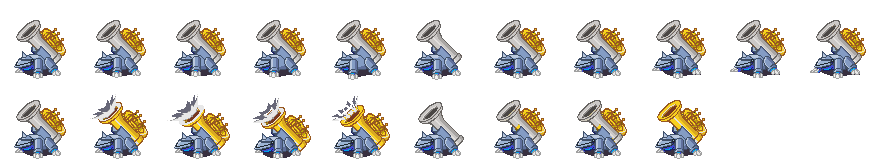
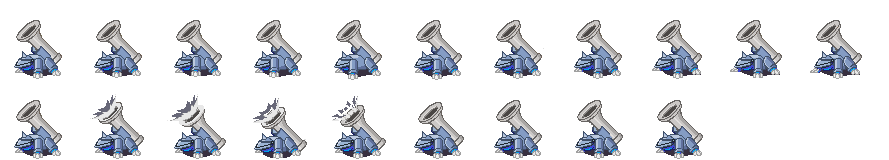
enemy
Enemy sprite kinda done

diff --git a/level1.js b/level1.js
@@ -1,4 +1,4 @@
-var level1 = 
+var level1 =
 {
 "height":29,
 "layers":[
@@ -8,7 +8,7 @@ var level1 =
          "name":"Rope",
          "opacity":1,
          "type":"tilelayer",
-         "visible":false,
+         "visible":true,
          "width":150,
          "x":0,
          "y":0
@@ -28,6 +28,17 @@ var level1 =
          "data":[0, 0, 0, 0, 0, 0, 0, 0, 0, 0, 0, 0, 0, 0, 0, 0, 0, 0, 0, 0, 0, 0, 0, 0, 0, 0, 0, 0, 0, 0, 0, 0, 0, 0, 0, 0, 0, 0, 0, 0, 0, 0, 0, 0, 0, 0, 0, 0, 0, 0, 0, 0, 0, 0, 0, 0, 0, 0, 0, 0, 0, 0, 0, 0, 0, 0, 0, 0, 0, 0, 0, 0, 0, 0, 0, 0, 0, 0, 0, 0, 0, 0, 0, 0, 0, 0, 0, 0, 0, 0, 0, 0, 0, 0, 0, 0, 0, 0, 0, 0, 0, 0, 0, 0, 0, 0, 0, 0, 0, 0, 0, 0, 0, 0, 0, 0, 0, 0, 0, 0, 0, 0, 0, 0, 0, 0, 0, 0, 0, 0, 0, 0, 0, 0, 0, 0, 0, 0, 0, 0, 0, 0, 0, 0, 0, 0, 0, 0, 0, 0, 0, 0, 0, 0, 0, 0, 0, 0, 0, 0, 0, 0, 0, 0, 0, 0, 0, 0, 0, 0, 0, 0, 0, 0, 0, 0, 0, 0, 0, 0, 0, 0, 0, 0, 0, 0, 0, 0, 0, 0, 0, 0, 0, 0, 0, 0, 0, 0, 0, 0, 0, 0, 0, 0, 0, 0, 0, 0, 0, 0, 0, 0, 0, 0, 0, 0, 0, 0, 0, 0, 0, 0, 0, 0, 0, 0, 0, 0, 0, 0, 0, 0, 0, 0, 0, 0, 0, 0, 0, 0, 0, 0, 0, 0, 0, 0, 0, 0, 0, 0, 0, 0, 0, 0, 0, 0, 0, 0, 0, 0, 0, 0, 0, 0, 0, 0, 0, 0, 0, 0, 0, 0, 0, 0, 0, 0, 0, 0, 0, 0, 0, 0, 0, 0, 0, 0, 0, 0, 0, 0, 0, 0, 0, 0, 0, 0, 0, 0, 0, 0, 0, 0, 0, 0, 0, 0, 0, 0, 0, 0, 0, 0, 0, 0, 0, 0, 0, 0, 0, 0, 0, 0, 0, 0, 0, 0, 0, 0, 0, 0, 0, 0, 0, 0, 0, 0, 0, 0, 0, 0, 0, 0, 0, 0, 0, 0, 0, 0, 0, 0, 0, 0, 0, 0, 0, 0, 0, 0, 0, 0, 0, 0, 0, 0, 0, 0, 0, 0, 0, 0, 0, 0, 0, 0, 0, 0, 0, 0, 0, 0, 0, 0, 0, 0, 0, 0, 0, 0, 0, 0, 0, 0, 0, 0, 0, 0, 0, 0, 0, 0, 0, 0, 0, 0, 0, 0, 0, 0, 0, 0, 0, 0, 0, 0, 0, 0, 0, 0, 0, 0, 0, 0, 0, 0, 0, 0, 0, 0, 0, 0, 0, 0, 0, 0, 0, 0, 0, 0, 0, 0, 0, 0, 0, 0, 0, 0, 0, 0, 0, 0, 0, 0, 0, 0, 0, 0, 0, 0, 0, 0, 0, 0, 0, 0, 0, 0, 0, 0, 0, 0, 0, 0, 0, 0, 0, 0, 0, 0, 0, 0, 0, 0, 0, 0, 0, 0, 0, 0, 0, 0, 0, 0, 0, 0, 0, 0, 0, 0, 0, 0, 0, 0, 0, 0, 0, 0, 0, 0, 0, 0, 0, 0, 0, 0, 0, 0, 0, 0, 0, 0, 0, 0, 0, 0, 0, 0, 0, 0, 0, 0, 0, 0, 0, 0, 0, 0, 0, 0, 0, 0, 0, 0, 0, 0, 0, 0, 0, 0, 0, 0, 0, 0, 0, 0, 0, 0, 0, 0, 0, 0, 0, 0, 0, 0, 0, 0, 0, 0, 0, 0, 0, 0, 0, 0, 0, 0, 0, 0, 0, 0, 0, 0, 0, 0, 0, 0, 0, 0, 0, 0, 0, 0, 0, 0, 0, 0, 0, 0, 0, 0, 0, 0, 0, 0, 0, 0, 0, 0, 0, 0, 0, 0, 0, 0, 0, 0, 0, 0, 0, 0, 0, 0, 0, 0, 0, 0, 0, 0, 0, 0, 0, 0, 0, 0, 0, 0, 0, 0, 0, 0, 0, 0, 0, 0, 0, 0, 0, 0, 0, 0, 0, 0, 0, 0, 0, 0, 0, 0, 0, 0, 0, 0, 0, 0, 0, 0, 0, 0, 0, 0, 0, 0, 0, 0, 0, 0, 0, 0, 0, 0, 0, 0, 0, 0, 0, 0, 0, 0, 0, 0, 0, 0, 0, 0, 0, 0, 0, 0, 0, 0, 0, 0, 0, 0, 0, 0, 0, 0, 0, 0, 0, 0, 0, 0, 0, 0, 0, 0, 0, 0, 0, 0, 0, 0, 0, 0, 0, 0, 0, 0, 0, 0, 0, 0, 0, 0, 0, 0, 0, 0, 0, 0, 0, 0, 0, 0, 0, 0, 0, 0, 0, 0, 0, 0, 0, 0, 0, 0, 0, 0, 0, 0, 0, 0, 0, 0, 0, 0, 0, 0, 0, 0, 0, 0, 0, 0, 0, 0, 0, 0, 0, 0, 0, 0, 0, 0, 0, 0, 0, 0, 0, 0, 0, 0, 0, 0, 0, 0, 0, 0, 0, 0, 0, 0, 0, 0, 0, 0, 0, 0, 0, 0, 0, 0, 0, 0, 0, 0, 0, 0, 0, 0, 0, 0, 0, 0, 0, 0, 0, 0, 0, 0, 0, 0, 0, 0, 0, 0, 0, 0, 0, 78, 0, 0, 0, 0, 0, 0, 0, 0, 0, 0, 0, 0, 0, 0, 0, 0, 0, 0, 0, 0, 0, 0, 0, 0, 0, 0, 0, 0, 0, 0, 0, 0, 0, 0, 0, 0, 0, 0, 0, 0, 0, 0, 0, 0, 0, 0, 0, 0, 0, 0, 0, 0, 0, 0, 0, 0, 0, 0, 0, 0, 0, 0, 0, 0, 0, 0, 0, 0, 0, 0, 0, 0, 0, 0, 0, 0, 0, 0, 0, 0, 0, 0, 0, 0, 0, 0, 0, 0, 0, 0, 0, 0, 0, 0, 0, 0, 0, 0, 0, 0, 0, 0, 0, 0, 0, 0, 0, 0, 0, 0, 0, 0, 0, 0, 0, 0, 0, 0, 0, 0, 0, 0, 0, 0, 0, 0, 0, 0, 0, 0, 0, 0, 0, 0, 0, 0, 0, 0, 0, 0, 0, 0, 0, 0, 0, 0, 0, 0, 0, 0, 0, 0, 0, 0, 0, 0, 0, 0, 0, 0, 0, 0, 0, 0, 0, 0, 0, 0, 0, 0, 0, 0, 0, 0, 0, 0, 0, 0, 0, 0, 0, 0, 0, 0, 0, 0, 0, 0, 0, 0, 0, 0, 0, 0, 0, 0, 0, 0, 0, 0, 0, 0, 0, 0, 0, 0, 0, 0, 0, 0, 0, 0, 0, 0, 0, 0, 0, 0, 0, 0, 0, 0, 0, 0, 0, 0, 0, 0, 0, 0, 0, 0, 0, 0, 0, 0, 0, 0, 0, 0, 0, 0, 0, 0, 0, 0, 0, 0, 0, 0, 0, 0, 0, 0, 0, 0, 0, 0, 0, 0, 0, 0, 0, 0, 0, 0, 0, 0, 0, 0, 0, 0, 0, 0, 0, 0, 170, 0, 0, 0, 0, 0, 0, 0, 0, 0, 0, 0, 0, 0, 0, 0, 0, 0, 0, 0, 0, 0, 0, 0, 0, 0, 0, 0, 0, 0, 0, 0, 0, 0, 0, 0, 0, 0, 0, 0, 0, 0, 0, 0, 0, 0, 0, 0, 0, 0, 0, 0, 0, 0, 0, 0, 0, 0, 0, 0, 0, 0, 0, 80, 0, 0, 0, 0, 0, 0, 0, 0, 0, 0, 0, 0, 0, 0, 0, 0, 0, 0, 0, 0, 0, 0, 0, 0, 81, 0, 82, 0, 0, 0, 0, 0, 0, 0, 0, 0, 0, 0, 0, 0, 0, 0, 0, 80, 0, 0, 0, 0, 0, 0, 0, 0, 0, 0, 0, 0, 0, 0, 0, 0, 0, 0, 0, 0, 0, 0, 0, 0, 0, 0, 0, 0, 0, 0, 0, 0, 0, 0, 0, 0, 0, 0, 0, 0, 0, 0, 0, 0, 0, 0, 0, 0, 0, 0, 0, 0, 0, 0, 0, 0, 0, 0, 0, 0, 0, 0, 0, 0, 0, 0, 0, 0, 0, 0, 0, 0, 0, 0, 0, 0, 0, 0, 0, 0, 0, 0, 0, 0, 0, 0, 0, 0, 0, 0, 0, 0, 0, 0, 0, 0, 0, 0, 0, 0, 0, 0, 0, 80, 0, 0, 0, 0, 0, 0, 0, 0, 0, 0, 0, 0, 0, 0, 0, 0, 0, 0, 0, 0, 0, 0, 0, 0, 0, 0, 0, 0, 0, 0, 0, 0, 0, 0, 0, 0, 0, 0, 0, 0, 0, 0, 0, 0, 0, 0, 0, 0, 0, 0, 0, 0, 0, 0, 0, 0, 0, 0, 0, 0, 0, 0, 0, 0, 0, 0, 0, 0, 0, 0, 0, 0, 0, 0, 0, 0, 0, 0, 0, 0, 0, 0, 170, 0, 0, 0, 0, 0, 0, 0, 0, 0, 0, 0, 0, 0, 0, 0, 0, 0, 0, 0, 0, 0, 78, 0, 0, 0, 0, 0, 0, 0, 0, 0, 0, 0, 0, 0, 0, 0, 0, 0, 0, 0, 0, 0, 0, 0, 0, 0, 0, 0, 0, 0, 0, 0, 0, 0, 0, 0, 0, 0, 0, 0, 0, 0, 0, 80, 0, 0, 0, 0, 0, 0, 0, 0, 0, 0, 0, 0, 0, 0, 0, 0, 0, 0, 0, 0, 0, 0, 0, 0, 0, 0, 0, 0, 0, 0, 0, 0, 0, 0, 0, 0, 0, 0, 0, 0, 0, 0, 0, 0, 0, 0, 0, 0, 0, 0, 0, 0, 0, 0, 0, 0, 0, 0, 0, 0, 0, 0, 0, 0, 0, 0, 0, 0, 0, 0, 0, 0, 0, 0, 0, 0, 0, 0, 0, 0, 0, 0, 0, 0, 0, 0, 0, 0, 0, 0, 0, 0, 0, 0, 0, 0, 0, 0, 0, 0, 0, 0, 0, 0, 0, 0, 0, 0, 0, 0, 0, 0, 0, 0, 0, 0, 0, 0, 0, 0, 0, 0, 0, 0, 0, 0, 0, 0, 0, 0, 0, 0, 0, 0, 0, 0, 0, 0, 0, 0, 0, 0, 0, 0, 0, 0, 0, 80, 0, 0, 0, 0, 0, 0, 0, 0, 0, 0, 0, 0, 0, 0, 0, 0, 0, 0, 0, 0, 0, 0, 0, 0, 0, 0, 0, 0, 0, 0, 0, 0, 0, 0, 0, 0, 0, 0, 0, 0, 0, 0, 0, 0, 0, 0, 0, 0, 0, 0, 0, 0, 0, 0, 0, 0, 0, 0, 0, 0, 0, 0, 83, 0, 84, 0, 0, 0, 0, 0, 0, 0, 0, 0, 0, 0, 0, 0, 0, 0, 170, 0, 0, 0, 0, 0, 0, 0, 0, 0, 0, 0, 0, 0, 0, 0, 0, 0, 0, 0, 0, 0, 0, 0, 0, 0, 0, 0, 0, 0, 0, 0, 0, 0, 0, 0, 0, 0, 0, 0, 78, 0, 0, 0, 0, 0, 0, 0, 0, 0, 0, 0, 0, 0, 0, 0, 0, 0, 0, 0, 0, 0, 0, 0, 0, 0, 0, 80, 0, 0, 0, 0, 0, 0, 0, 0, 0, 0, 0, 0, 0, 0, 0, 0, 0, 0, 0, 0, 0, 0, 0, 0, 0, 0, 0, 0, 0, 0, 0, 0, 0, 0, 0, 0, 0, 0, 0, 0, 0, 0, 0, 0, 0, 0, 0, 0, 80, 0, 0, 0, 0, 0, 0, 0, 0, 0, 0, 0, 0, 0, 0, 0, 0, 0, 0, 0, 0, 0, 0, 0, 0, 0, 0, 0, 0, 0, 0, 0, 0, 0, 0, 0, 0, 0, 0, 0, 0, 0, 0, 0, 0, 0, 0, 0, 0, 0, 0, 0, 0, 0, 0, 0, 0, 0, 0, 0, 0, 0, 0, 0, 0, 0, 0, 0, 0, 0, 0, 0, 0, 0, 0, 0, 0, 0, 0, 0, 0, 0, 0, 0, 0, 0, 0, 0, 0, 0, 0, 0, 0, 0, 0, 0, 0, 0, 0, 80, 0, 0, 0, 0, 0, 0, 0, 0, 0, 0, 0, 0, 0, 0, 0, 0, 0, 0, 0, 0, 0, 0, 0, 0, 0, 0, 0, 0, 0, 0, 0, 0, 0, 0, 0, 0, 0, 0, 0, 0, 0, 0, 0, 0, 0, 0, 0, 0, 0, 0, 0, 0, 0, 0, 0, 0, 0, 0, 0, 0, 0, 0, 0, 0, 0, 0, 0, 0, 0, 0, 0, 0, 0, 0, 0, 0, 0, 0, 170, 0, 0, 0, 0, 0, 0, 0, 0, 0, 0, 0, 0, 0, 0, 0, 0, 0, 0, 0, 0, 0, 0, 0, 0, 0, 0, 0, 0, 0, 0, 0, 0, 0, 0, 0, 0, 0, 0, 0, 0, 0, 0, 0, 0, 0, 0, 0, 0, 0, 0, 0, 0, 0, 0, 0, 0, 0, 0, 0, 0, 0, 0, 0, 0, 0, 170, 0, 0, 0, 0, 0, 0, 0, 0, 0, 0, 0, 0, 0, 0, 0, 0, 0, 0, 0, 0, 0, 0, 0, 0, 0, 0, 67, 0, 68, 68, 0, 69, 0, 0, 0, 0, 0, 0, 0, 0, 0, 0, 0, 0, 0, 0, 0, 0, 0, 0, 0, 0, 0, 0, 0, 0, 0, 0, 0, 0, 0, 0, 0, 0, 0, 0, 0, 0, 0, 0, 0, 0, 0, 0, 0, 0, 0, 0, 0, 0, 0, 0, 0, 0, 0, 0, 0, 0, 0, 0, 0, 0, 0, 0, 0, 0, 0, 0, 0, 0, 0, 0, 0, 0, 0, 0, 0, 0, 0, 0, 0, 0, 0, 0, 0, 0, 0, 0, 0, 0, 0, 0, 0, 0, 0, 0, 0, 0, 0, 0, 0, 0, 0, 0, 0, 78, 0, 0, 0, 0, 0, 0, 0, 0, 0, 0, 0, 0, 0, 0, 0, 0, 0, 0, 0, 0, 0, 0, 0, 0, 0, 0, 0, 0, 0, 0, 0, 0, 0, 0, 0, 0, 0, 0, 0, 0, 0, 0, 0, 0, 0, 0, 0, 0, 0, 0, 0, 0, 0, 0, 0, 0, 0, 0, 0, 0, 0, 0, 0, 0, 0, 0, 0, 0, 0, 0, 0, 0, 0, 0, 0, 0, 0, 0, 0, 0, 170, 0, 0, 0, 0, 0, 0, 0, 0, 0, 0, 0, 0, 0, 0, 0, 0, 0, 0, 0, 0, 0, 0, 0, 0, 0, 0, 0, 0, 0, 0, 0, 0, 0, 0, 0, 0, 0, 0, 0, 0, 0, 81, 0, 82, 0, 0, 0, 0, 0, 0, 0, 0, 0, 0, 0, 0, 78, 0, 0, 0, 0, 0, 0, 0, 0, 0, 0, 0, 65, 0, 0, 0, 0, 0, 0, 0, 170, 0, 0, 0, 0, 0, 0, 0, 0, 0, 0, 0, 0, 0, 0, 0, 0, 0, 0, 0, 0, 0, 0, 0, 0, 0, 0, 0, 0, 0, 0, 0, 0, 0, 0, 0, 0, 0, 0, 0, 0, 0, 0, 0, 0, 0, 0, 0, 0, 0, 0, 0, 0, 0, 0, 67, 0, 68, 0, 69, 0, 0, 0, 0, 0, 0, 0, 0, 0, 0, 0, 0, 0, 0, 0, 0, 0, 0, 0, 0, 0, 0, 0, 0, 0, 0, 0, 0, 0, 0, 0, 0, 0, 0, 0, 0, 0, 0, 0, 0, 0, 0, 0, 0, 0, 0, 0, 0, 78, 0, 0, 0, 0, 0, 0, 0, 0, 0, 0, 0, 0, 0, 0, 0, 0, 0, 0, 0, 0, 0, 0, 0, 0, 0, 0, 0, 0, 0, 0, 0, 78, 0, 65, 0, 0, 0, 0, 0, 0, 0, 0, 0, 0, 0, 0, 0, 0, 0, 0, 0, 0, 0, 0, 0, 0, 0, 0, 0, 0, 0, 0, 0, 0, 0, 0, 0, 0, 0, 0, 0, 0, 0, 0, 0, 0, 0, 0, 0, 0, 0, 0, 0, 0, 0, 0, 0, 0, 0, 0, 0, 0, 0, 0, 0, 0, 0, 0, 0, 0, 0, 0, 0, 0, 0, 0, 0, 0, 0, 0, 0, 0, 0, 0, 0, 0, 0, 0, 0, 0, 0, 0, 0, 0, 0, 0, 0, 0, 0, 0, 0, 0, 0, 0, 0, 0, 0, 0, 0, 0, 0, 0, 0, 0, 0, 0, 0, 0, 0, 0, 0, 0, 0, 0, 0, 0, 0, 0, 0, 0, 0, 0, 78, 0, 0, 0, 0, 0, 0, 0, 0, 0, 0, 0, 0, 0, 0, 0, 0, 0, 0, 65, 0, 65, 0, 0, 0, 0, 0, 0, 0, 0, 0, 0, 0, 0, 0, 0, 0, 0, 0, 0, 0, 0, 0, 0, 0, 0, 0, 0, 0, 0, 0, 0, 0, 0, 0, 0, 0, 0, 0, 0, 0, 0, 0, 0, 0, 0, 0, 0, 0, 0, 0, 0, 0, 0, 0, 0, 0, 0, 0, 0, 0, 0, 0, 0, 0, 0, 0, 0, 0, 0, 0, 0, 0, 0, 0, 0, 0, 0, 0, 0, 0, 0, 0, 0, 0, 0, 0, 0, 0, 0, 0, 0, 0, 0, 0, 0, 0, 0, 0, 0, 0, 0, 0, 0, 0, 0, 0, 0, 0, 0, 0, 0, 0, 0, 0, 0, 0, 0, 0, 0, 0, 0, 0, 0, 0, 0, 0, 0, 0, 0, 0, 0, 0, 0, 0, 0, 0, 0, 0, 0, 0, 0, 0, 0, 0, 0, 0, 78, 0, 65, 0, 65, 0, 0, 80, 0, 0, 0, 0, 0, 0, 0, 0, 0, 0, 0, 0, 0, 0, 0, 0, 0, 0, 0, 0, 0, 0, 0, 0, 0, 0, 0, 0, 0, 0, 0, 0, 0, 0, 0, 0, 0, 0, 0, 0, 0, 0, 0, 0, 0, 0, 0, 0, 0, 0, 0, 0, 0, 0, 80, 0, 0, 0, 0, 0, 0, 0, 0, 0, 0, 0, 0, 0, 0, 0, 0, 0, 0, 0, 0, 0, 0, 0, 0, 0, 0, 0, 0, 0, 0, 0, 0, 0, 0, 0, 0, 0, 0, 0, 0, 0, 0, 0, 0, 0, 0, 0, 0, 0, 0, 0, 0, 0, 0, 0, 0, 0, 0, 0, 0, 0, 0, 0, 0, 0, 0, 0, 0, 0, 0, 0, 0, 0, 0, 0, 0, 0, 0, 0, 0, 0, 0, 0, 0, 0, 0, 0, 65, 0, 65, 0, 65, 0, 0, 0, 0, 0, 0, 0, 0, 0, 0, 0, 0, 0, 0, 0, 0, 0, 0, 0, 0, 0, 0, 0, 0, 0, 0, 0, 0, 0, 0, 0, 0, 0, 0, 0, 0, 0, 0, 0, 0, 0, 0, 0, 0, 0, 0, 0, 0, 0, 0, 0, 0, 0, 0, 0, 0, 0, 0, 0, 0, 0, 0, 0, 0, 0, 0, 0, 0, 0, 0, 0, 0, 0, 0, 0, 0, 0, 0, 0, 0, 0, 0, 0, 0, 0, 0, 0, 0, 0, 0, 0, 0, 0, 0, 0, 0, 0, 0, 0, 0, 0, 0, 0, 0, 0, 0, 0, 0, 0, 0, 0, 0, 0, 0, 0, 0, 0, 0, 0, 0, 0, 0, 0, 0, 0, 0, 0, 0, 0, 0, 0, 0, 0, 0, 0, 0, 0, 0, 0, 0, 0, 0, 0, 78, 0, 65, 65, 65, 0, 65, 0, 0, 0, 0, 0, 0, 0, 0, 0, 0, 0, 0, 0, 0, 0, 0, 0, 0, 0, 0, 0, 0, 0, 0, 0, 0, 0, 0, 0, 0, 0, 0, 0, 0, 0, 0, 0, 0, 0, 0, 0, 0, 0, 0, 0, 0, 0, 0, 0, 0, 0, 0, 0, 0, 0, 0, 0, 0, 0, 0, 0, 0, 0, 0, 0, 0, 0, 0, 0, 0, 0, 0, 50, 0, 51, 0, 52, 0, 0, 0, 0, 0, 0, 0, 0, 0, 0, 78, 78, 0, 0, 0, 0, 0, 80, 0, 0, 0, 0, 0, 80, 0, 0, 0, 0, 0, 80, 0, 0, 0, 0, 0, 80, 0, 0, 0, 0, 0, 80, 0, 0, 0, 0, 0, 78, 0, 0, 0, 0, 0, 0, 0, 0, 0, 0, 0, 0, 0, 0, 0, 0, 0, 0, 65, 0, 65, 0, 65, 0, 65, 0, 0, 0, 0, 0, 0, 0, 65, 65, 65, 65, 65, 65, 65, 65, 65, 65, 65, 65, 65, 65, 65, 65, 65, 65, 65, 65, 65, 65, 65, 65, 65, 65, 65, 65, 65, 65, 65, 0, 0, 0, 0, 0, 0, 0, 0, 0, 50, 0, 51, 0, 51, 0, 52, 0, 0, 0, 0, 0, 0, 0, 0, 0, 0, 0, 0, 0, 0, 0, 0, 0, 0, 0, 0, 0, 0, 0, 0, 0, 0, 0, 0, 0, 0, 0, 0, 0, 65, 65, 0, 0, 0, 0, 0, 0, 0, 0, 0, 0, 0, 0, 0, 0, 0, 0, 0, 0, 0, 0, 0, 0, 0, 0, 0, 0, 0, 0, 0, 0, 0, 0, 0, 0, 0, 65, 0, 0, 0, 0, 0, 0, 0, 0, 0, 0, 0, 0, 0, 0, 0, 0, 78, 0, 65, 0, 65, 0, 65, 0, 65, 0, 0, 0, 0, 0, 0, 0, 0, 0, 0, 0, 0, 0, 0, 0, 0, 0, 0, 0, 0, 0, 0, 0, 0, 0, 0, 0, 0, 0, 0, 0, 0, 0, 0, 0, 0, 0, 0, 0, 0, 0, 0, 0, 0, 0, 0, 0, 65, 65, 65, 0, 0, 0, 65, 0, 0, 0, 0, 0, 0, 0, 0, 0, 0, 0, 0, 0, 0, 0, 0, 0, 0, 0, 0, 0, 0, 0, 0, 0, 0, 0, 0, 0, 0, 0, 0, 0, 65, 65, 0, 0, 0, 0, 0, 0, 0, 0, 0, 0, 0, 0, 0, 0, 0, 0, 0, 0, 0, 0, 0, 0, 0, 0, 0, 0, 0, 0, 0, 0, 0, 0, 0, 0, 0, 65, 0, 0, 0, 0, 0, 0, 0, 0, 78, 0, 0, 0, 0, 0, 0, 0, 65, 0, 65, 0, 65, 65, 65, 0, 65, 0, 0, 0, 0, 0, 0, 0, 0, 0, 0, 0, 0, 0, 0, 0, 0, 0, 0, 0, 0, 0, 0, 0, 0, 0, 0, 0, 0, 0, 0, 0, 0, 0, 0, 0, 0, 0, 0, 0, 0, 0, 0, 0, 0, 0, 0, 0, 65, 65, 65, 0, 65, 0, 65, 0, 0, 0, 0, 0, 0, 0, 0, 0, 81, 0, 82, 0, 0, 0, 0, 0, 0, 0, 0, 0, 0, 0, 0, 0, 0, 0, 0, 0, 0, 0, 0, 0, 65, 65, 0, 0, 0, 0, 0, 0, 0, 0, 0, 0, 0, 0, 0, 0, 0, 0, 0, 0, 0, 0, 0, 0, 0, 0, 0, 0, 0, 0, 0, 0, 0, 0, 0, 0, 0, 0, 0, 0, 0, 0, 0, 0, 0, 0, 0, 0, 0, 0, 0, 0, 78, 0, 65, 0, 65, 0, 65, 65, 65, 0, 65, 0, 0, 0, 0, 0, 0, 0, 0, 0, 0, 0, 0, 0, 0, 0, 0, 0, 0, 0, 0, 0, 0, 0, 0, 0, 0, 0, 0, 0, 0, 0, 0, 0, 0, 0, 0, 0, 0, 0, 0, 0, 0, 0, 0, 0, 0, 0, 0, 65, 65, 65, 65, 0, 65, 0, 0, 0, 0, 0, 0, 0, 0, 0, 0, 0, 0, 0, 0, 0, 0, 0, 0, 0, 0, 0, 0, 0, 0, 0, 0, 0, 0, 0, 0, 0, 0, 0, 65, 65, 0, 0, 0, 0, 0, 0, 0, 0, 0, 0, 0, 0, 0, 0, 0, 0, 0, 0, 0, 0, 0, 0, 0, 0, 0, 0, 0, 0, 0, 0, 0, 0, 0, 0, 0, 65, 0, 0, 0, 0, 0, 0, 0, 0, 0, 0, 0, 0, 78, 0, 65, 0, 65, 0, 65, 0, 65, 65, 65, 65, 65, 0, 0, 0, 0, 0, 0, 0, 0, 0, 0, 0, 0, 0, 0, 0, 0, 0, 0, 0, 0, 0, 0, 0, 0, 0, 0, 0, 0, 0, 0, 0, 0, 0, 0, 0, 0, 0, 0, 0, 0, 0, 0, 0, 0, 0, 0, 0, 65, 65, 65, 65, 65, 0, 65, 0, 0, 0, 0, 0, 0, 0, 0, 0, 0, 0, 0, 0, 0, 0, 0, 0, 0, 0, 0, 0, 0, 0, 0, 0, 0, 0, 0, 0, 0, 0, 0, 0, 65, 65, 0, 0, 0, 0, 0, 0, 0, 0, 0, 0, 0, 0, 0, 0, 0, 0, 0, 0, 0, 0, 0, 0, 0, 0, 0, 0, 0, 0, 0, 0, 0, 0, 0, 0, 0, 65, 0, 0, 0, 0, 0, 0, 0, 0, 0, 0, 0, 0, 65, 0, 65, 0, 65, 0, 65, 65, 65, 65, 65, 65, 65, 0, 0, 0, 0, 0, 0, 0, 0, 0, 0, 0, 0, 0, 0, 0, 0, 0, 0, 0, 0, 0, 0, 0, 0, 0, 0, 0, 0, 0, 0, 0, 0, 0, 0, 0, 0, 0, 0, 0, 0, 0, 0, 0, 0, 0, 163, 0, 65, 65, 65, 65, 65, 65, 65, 0, 0, 0, 0, 0, 0, 0, 0, 0, 0, 0, 0, 0, 0, 0, 0, 0, 0, 0, 0, 0, 0, 0, 0, 0, 0, 0, 0, 0, 0, 0, 0, 0, 65, 65, 0, 0, 0, 0, 0, 0, 0, 0, 0, 0, 0, 0, 0, 0, 0, 0, 0, 0, 0, 0, 0, 0, 0, 0, 0, 0, 0, 0, 0, 0, 0, 0, 0, 0, 0, 0, 0, 0, 0, 0, 0, 11, 0, 0, 0, 0, 0, 0, 65, 0, 65, 0, 65, 65, 65, 65, 65, 65, 65, 65, 65, 0, 0, 0, 0, 0, 0, 50, 0, 51, 51, 51, 51, 51, 51, 51, 51, 51, 51, 51, 51, 51, 51, 51, 51, 51, 51, 51, 51, 51, 51, 51, 51, 51, 51, 51, 51, 51, 0, 52, 0, 0, 0, 0, 0, 0, 0, 0, 65, 65, 65, 65, 65, 65, 65, 0, 0, 0, 0, 0, 0, 0, 0, 0, 0, 0, 0, 0, 0, 0, 0, 0, 0, 0, 0, 0, 0, 0, 0, 0, 0, 0, 0, 0, 0, 0, 0, 0, 65, 65, 0, 0, 0, 0, 0, 0, 0, 0, 0, 0, 0, 0, 0, 0, 0, 0, 0, 0, 0, 0, 0, 0, 0, 0, 0, 0, 0, 0, 0, 0, 0, 0, 0, 0, 0, 65, 0, 0, 0, 0, 0, 11, 0, 0, 0, 0, 0, 0, 65, 0, 65, 0, 65, 65, 65, 65, 65, 65, 65, 65, 65, 0, 0, 0, 0, 0, 0, 0, 0, 0, 0, 0, 0, 0, 0, 0, 0, 0, 0, 0, 0, 0, 0, 0, 0, 0, 0, 0, 0, 0, 0, 0, 0, 0, 0, 0, 0, 0, 0, 0, 0, 0, 0, 0, 83, 0, 84, 0],
          "height":29,
          "name":"Tiles",
+         "opacity":1,
+         "type":"tilelayer",
+         "visible":true,
+         "width":150,
+         "x":0,
+         "y":0
+        }, 
+        {
+         "data":[0, 0, 0, 0, 0, 0, 0, 0, 0, 0, 0, 0, 0, 0, 0, 0, 0, 0, 0, 0, 0, 0, 0, 0, 0, 0, 0, 0, 0, 0, 0, 0, 0, 0, 0, 0, 0, 0, 0, 0, 0, 0, 0, 0, 0, 0, 0, 0, 0, 0, 0, 0, 0, 0, 0, 0, 0, 0, 0, 0, 0, 0, 0, 0, 0, 0, 0, 0, 0, 0, 0, 0, 0, 0, 0, 0, 0, 0, 0, 0, 0, 0, 0, 0, 0, 0, 0, 0, 0, 0, 0, 0, 0, 0, 0, 0, 0, 0, 0, 0, 0, 0, 0, 0, 0, 0, 0, 0, 0, 0, 0, 0, 0, 0, 0, 0, 0, 0, 0, 0, 0, 0, 0, 0, 0, 0, 0, 0, 0, 0, 0, 0, 0, 0, 0, 0, 0, 0, 0, 0, 0, 0, 0, 0, 0, 0, 0, 0, 0, 0, 0, 0, 0, 0, 0, 0, 0, 0, 0, 0, 0, 0, 0, 0, 0, 0, 0, 0, 0, 0, 0, 0, 0, 0, 0, 0, 0, 0, 0, 0, 0, 0, 0, 0, 0, 0, 0, 0, 0, 0, 0, 0, 0, 0, 0, 0, 0, 0, 0, 0, 0, 0, 0, 0, 0, 0, 0, 0, 0, 0, 0, 0, 0, 0, 0, 0, 0, 0, 0, 0, 0, 0, 0, 0, 0, 0, 0, 0, 0, 0, 0, 0, 0, 0, 0, 0, 0, 0, 0, 0, 0, 0, 0, 0, 0, 0, 0, 0, 0, 0, 0, 0, 0, 0, 0, 0, 0, 0, 0, 0, 0, 0, 0, 0, 0, 0, 0, 0, 0, 0, 0, 0, 0, 0, 0, 0, 0, 0, 0, 0, 0, 0, 0, 0, 0, 0, 0, 0, 0, 0, 0, 0, 0, 0, 0, 0, 0, 0, 0, 0, 0, 0, 0, 0, 0, 0, 0, 0, 0, 0, 0, 0, 0, 0, 0, 0, 0, 0, 0, 0, 0, 0, 0, 0, 0, 0, 0, 0, 0, 0, 0, 0, 0, 0, 0, 0, 0, 0, 0, 0, 0, 0, 0, 0, 0, 0, 0, 0, 0, 0, 0, 0, 0, 0, 0, 0, 0, 0, 0, 0, 0, 0, 0, 0, 0, 0, 0, 0, 0, 0, 0, 0, 0, 0, 0, 0, 0, 0, 0, 0, 0, 0, 0, 0, 0, 0, 0, 0, 0, 0, 0, 0, 0, 0, 0, 0, 0, 0, 0, 0, 0, 0, 0, 0, 0, 0, 0, 0, 0, 0, 0, 0, 0, 0, 0, 0, 0, 0, 0, 0, 0, 0, 0, 0, 0, 0, 0, 0, 0, 0, 0, 0, 0, 0, 0, 0, 0, 0, 0, 0, 0, 0, 0, 0, 0, 0, 0, 0, 0, 0, 0, 0, 0, 0, 0, 0, 0, 0, 0, 0, 0, 0, 0, 0, 0, 0, 0, 0, 0, 0, 0, 0, 0, 0, 0, 0, 0, 0, 0, 0, 0, 0, 0, 0, 0, 0, 0, 0, 0, 0, 0, 0, 0, 0, 0, 0, 0, 0, 0, 0, 0, 0, 0, 0, 0, 0, 0, 0, 0, 0, 0, 0, 0, 0, 0, 0, 0, 0, 0, 0, 0, 0, 0, 0, 0, 0, 0, 0, 0, 0, 0, 0, 0, 0, 0, 0, 0, 0, 0, 0, 0, 0, 0, 0, 0, 0, 0, 0, 0, 0, 0, 0, 0, 0, 0, 0, 0, 0, 0, 0, 0, 0, 0, 0, 0, 0, 0, 0, 0, 0, 0, 0, 0, 0, 0, 0, 0, 0, 0, 0, 0, 0, 0, 0, 0, 0, 0, 0, 0, 0, 0, 0, 0, 0, 0, 0, 0, 0, 0, 0, 0, 0, 0, 0, 0, 0, 0, 0, 0, 0, 0, 0, 0, 0, 0, 0, 0, 0, 0, 0, 0, 0, 0, 0, 0, 0, 0, 0, 0, 0, 0, 0, 0, 0, 0, 0, 0, 0, 0, 0, 0, 0, 0, 0, 0, 0, 0, 0, 0, 0, 0, 0, 0, 0, 0, 0, 0, 0, 0, 0, 0, 0, 0, 0, 0, 0, 0, 0, 0, 0, 0, 0, 0, 0, 0, 0, 0, 0, 0, 0, 0, 0, 0, 0, 0, 0, 0, 0, 0, 0, 0, 0, 0, 0, 0, 0, 0, 0, 0, 0, 0, 0, 0, 0, 0, 0, 0, 0, 0, 0, 0, 0, 0, 0, 0, 0, 0, 0, 0, 0, 0, 0, 0, 0, 0, 0, 0, 0, 0, 0, 0, 0, 0, 0, 0, 0, 0, 0, 0, 0, 0, 0, 0, 0, 0, 0, 0, 0, 0, 0, 0, 0, 0, 0, 0, 0, 0, 0, 0, 0, 0, 0, 0, 0, 0, 0, 0, 0, 0, 0, 0, 0, 0, 0, 0, 0, 0, 0, 0, 0, 0, 0, 0, 0, 0, 0, 0, 0, 0, 0, 0, 0, 0, 0, 0, 0, 0, 0, 0, 0, 0, 0, 0, 0, 0, 0, 0, 0, 0, 0, 0, 0, 0, 0, 0, 0, 0, 0, 0, 0, 0, 0, 0, 0, 0, 0, 0, 0, 0, 0, 0, 0, 0, 0, 0, 0, 0, 0, 0, 0, 0, 0, 0, 0, 0, 0, 0, 0, 0, 0, 0, 0, 0, 0, 0, 0, 0, 0, 0, 0, 0, 0, 0, 0, 0, 0, 0, 0, 0, 0, 0, 0, 0, 0, 0, 0, 0, 0, 0, 0, 0, 38, 0, 0, 0, 0, 0, 0, 0, 0, 0, 0, 0, 0, 0, 0, 0, 0, 0, 0, 0, 0, 0, 0, 0, 0, 0, 0, 0, 0, 0, 0, 0, 0, 0, 0, 0, 0, 0, 0, 0, 0, 0, 0, 0, 0, 0, 0, 0, 0, 0, 0, 0, 0, 0, 0, 0, 0, 0, 0, 0, 0, 0, 0, 0, 0, 0, 0, 0, 0, 0, 0, 0, 0, 0, 0, 0, 0, 0, 0, 0, 0, 0, 0, 0, 0, 0, 0, 0, 0, 0, 0, 0, 0, 0, 0, 0, 0, 0, 0, 0, 0, 0, 0, 0, 0, 0, 0, 0, 0, 0, 0, 0, 0, 0, 0, 0, 0, 0, 0, 0, 0, 0, 0, 0, 0, 0, 0, 0, 0, 0, 0, 0, 0, 0, 0, 0, 0, 0, 0, 0, 0, 0, 0, 0, 0, 0, 0, 0, 0, 0, 0, 0, 0, 0, 0, 0, 0, 0, 0, 0, 0, 0, 0, 0, 0, 0, 0, 0, 0, 0, 0, 0, 0, 0, 0, 0, 0, 0, 0, 0, 0, 0, 0, 0, 0, 0, 0, 0, 0, 0, 0, 0, 0, 0, 0, 0, 0, 0, 0, 0, 0, 0, 0, 0, 0, 0, 0, 0, 0, 0, 0, 0, 0, 0, 0, 0, 0, 0, 0, 0, 0, 0, 0, 0, 0, 0, 0, 0, 0, 0, 0, 0, 0, 0, 0, 0, 0, 0, 0, 0, 0, 0, 0, 0, 0, 0, 0, 0, 0, 0, 0, 0, 0, 0, 0, 0, 0, 0, 0, 0, 0, 0, 0, 0, 0, 0, 0, 0, 0, 0, 0, 0, 0, 0, 0, 0, 0, 0, 0, 0, 0, 0, 0, 0, 0, 0, 0, 0, 0, 0, 0, 0, 0, 0, 0, 0, 0, 0, 0, 0, 0, 0, 0, 0, 0, 0, 0, 0, 0, 0, 0, 0, 0, 0, 0, 0, 0, 0, 0, 0, 0, 0, 0, 0, 0, 0, 0, 0, 0, 0, 0, 0, 0, 0, 0, 0, 0, 0, 0, 0, 0, 0, 0, 0, 0, 0, 0, 0, 0, 0, 0, 0, 0, 0, 0, 0, 0, 0, 0, 0, 0, 0, 0, 0, 0, 0, 0, 0, 0, 0, 0, 0, 0, 0, 0, 0, 0, 0, 0, 0, 0, 0, 0, 0, 0, 0, 0, 0, 0, 0, 0, 0, 0, 0, 0, 0, 0, 0, 0, 0, 0, 0, 0, 0, 0, 0, 0, 0, 0, 0, 0, 0, 0, 0, 0, 0, 0, 0, 0, 0, 0, 0, 0, 0, 0, 0, 0, 0, 0, 0, 0, 0, 0, 0, 0, 0, 0, 0, 0, 0, 0, 0, 0, 0, 0, 0, 0, 0, 0, 0, 0, 0, 0, 0, 0, 0, 0, 0, 0, 0, 0, 0, 0, 0, 0, 0, 0, 0, 0, 0, 0, 0, 0, 0, 0, 0, 0, 0, 0, 0, 0, 0, 0, 0, 0, 0, 0, 0, 0, 0, 0, 0, 0, 0, 0, 0, 0, 0, 0, 0, 0, 0, 0, 0, 0, 0, 0, 0, 0, 0, 0, 0, 0, 0, 0, 0, 0, 0, 0, 0, 0, 0, 0, 0, 0, 0, 0, 0, 0, 0, 0, 0, 0, 0, 0, 0, 0, 0, 0, 0, 0, 0, 0, 0, 0, 0, 0, 0, 0, 0, 0, 0, 0, 0, 0, 0, 0, 0, 0, 0, 0, 0, 0, 0, 0, 0, 0, 0, 0, 0, 0, 0, 0, 0, 0, 0, 0, 0, 0, 0, 0, 0, 0, 0, 0, 0, 0, 0, 0, 0, 0, 0, 0, 0, 0, 0, 0, 0, 0, 0, 0, 0, 0, 0, 0, 0, 0, 0, 0, 0, 0, 0, 0, 0, 0, 0, 0, 0, 0, 0, 0, 0, 0, 0, 0, 0, 0, 0, 0, 0, 0, 0, 0, 0, 0, 0, 0, 0, 0, 0, 0, 0, 0, 0, 0, 0, 0, 0, 0, 0, 0, 0, 0, 0, 0, 0, 0, 0, 0, 0, 0, 0, 0, 0, 0, 0, 0, 0, 0, 0, 0, 0, 0, 0, 0, 0, 0, 0, 0, 0, 0, 0, 0, 0, 0, 0, 0, 0, 0, 0, 0, 0, 0, 0, 0, 0, 0, 0, 0, 0, 0, 0, 0, 0, 0, 0, 0, 0, 0, 0, 0, 0, 0, 0, 0, 0, 0, 0, 0, 0, 0, 0, 0, 0, 0, 0, 0, 0, 0, 0, 0, 0, 0, 0, 0, 0, 0, 0, 0, 0, 0, 0, 0, 0, 0, 0, 0, 0, 0, 0, 0, 0, 0, 0, 0, 0, 0, 0, 0, 0, 0, 0, 0, 0, 0, 0, 0, 0, 0, 0, 0, 0, 0, 0, 0, 0, 0, 0, 0, 0, 0, 0, 0, 0, 0, 0, 0, 0, 0, 0, 0, 0, 0, 0, 0, 0, 0, 0, 0, 0, 0, 0, 0, 0, 0, 0, 0, 0, 0, 0, 0, 0, 0, 0, 0, 0, 0, 0, 0, 0, 0, 0, 0, 0, 0, 0, 0, 0, 0, 0, 0, 0, 0, 0, 0, 0, 0, 0, 0, 0, 0, 0, 0, 0, 0, 0, 0, 0, 0, 0, 0, 0, 0, 0, 0, 0, 0, 0, 0, 0, 0, 0, 0, 0, 0, 0, 0, 0, 0, 0, 0, 0, 0, 0, 0, 0, 0, 0, 0, 0, 0, 0, 0, 0, 0, 0, 0, 0, 0, 0, 0, 0, 0, 0, 0, 0, 0, 0, 0, 0, 0, 0, 0, 0, 0, 0, 0, 0, 0, 0, 0, 0, 0, 0, 0, 0, 0, 0, 0, 0, 0, 0, 0, 0, 0, 0, 0, 0, 0, 0, 0, 0, 0, 0, 0, 0, 0, 0, 0, 0, 0, 0, 0, 0, 0, 0, 0, 0, 0, 0, 0, 0, 0, 0, 0, 0, 0, 0, 0, 0, 0, 0, 0, 0, 0, 0, 0, 0, 0, 0, 0, 0, 0, 0, 0, 0, 0, 0, 0, 0, 0, 0, 0, 0, 0, 0, 0, 0, 0, 0, 0, 0, 0, 0, 0, 0, 0, 0, 0, 0, 0, 0, 0, 0, 0, 0, 0, 0, 0, 0, 0, 0, 0, 0, 0, 0, 0, 0, 0, 0, 0, 0, 0, 0, 0, 0, 0, 0, 0, 0, 0, 0, 0, 0, 0, 0, 0, 0, 0, 0, 0, 0, 0, 0, 0, 0, 0, 0, 0, 0, 0, 0, 0, 0, 0, 0, 0, 0, 0, 0, 0, 0, 0, 0, 0, 0, 0, 0, 0, 0, 0, 0, 0, 0, 0, 0, 0, 0, 0, 0, 0, 0, 0, 0, 0, 0, 0, 0, 0, 0, 0, 0, 0, 0, 0, 0, 0, 0, 0, 0, 0, 0, 0, 0, 0, 0, 0, 0, 0, 0, 0, 0, 0, 0, 0, 0, 0, 0, 0, 0, 0, 0, 0, 0, 0, 0, 0, 0, 0, 0, 0, 0, 0, 0, 0, 0, 0, 0, 0, 0, 0, 0, 0, 0, 0, 0, 0, 0, 0, 0, 0, 0, 0, 0, 0, 0, 0, 0, 0, 0, 0, 0, 0, 0, 0, 0, 0, 0, 0, 0, 0, 0, 0, 0, 0, 0, 0, 0, 0, 0, 0, 0, 0, 0, 0, 0, 0, 0, 0, 0, 0, 0, 0, 0, 0, 0, 0, 0, 0, 0, 0, 0, 0, 0, 0, 0, 0, 0, 0, 0, 0, 0, 0, 0, 0, 0, 0, 0, 0, 0, 0, 0, 0, 0, 0, 0, 0, 0, 0, 0, 0, 0, 0, 0, 38, 0, 0, 0, 0, 0, 0, 0, 0, 0, 0, 0, 0, 0, 0, 0, 0, 0, 0, 0, 0, 0, 0, 0, 0, 0, 0, 0, 0, 0, 0, 0, 0, 0, 0, 0, 0, 0, 0, 0, 0, 0, 0, 0, 0, 0, 0, 0, 0, 0, 0, 0, 0, 0, 0, 0, 0, 0, 0, 0, 0, 0, 0, 0, 0, 0, 0, 0, 0, 0, 0, 0, 0, 0, 0, 0, 0, 0, 0, 0, 0, 0, 0, 0, 0, 0, 0, 0, 0, 0, 0, 0, 0, 0, 0, 0, 0, 0, 0, 0, 0, 0, 0, 0, 0, 0, 0, 0, 0, 0, 0, 0, 0, 0, 0, 0, 0, 0, 0, 0, 0, 0, 0, 0, 0, 0, 0, 0, 0, 0, 0, 0, 0, 0, 0, 0, 0, 0, 0, 0, 0, 0, 0, 0, 0, 0, 0, 0, 0, 0, 0, 0, 0, 0, 0, 0, 0, 0, 0, 0, 0, 0, 0, 0, 0, 0, 0, 0, 0, 0, 0, 0, 0, 0, 0, 0, 0, 0, 0, 0, 0, 0, 0, 0, 0, 0, 0, 0, 0, 0, 0, 0, 0, 0, 0, 0, 0, 0, 0, 0, 0, 0, 0, 0, 0, 0, 0, 0, 0, 0, 0, 0, 0, 0, 0, 0, 0, 0, 0, 0, 0, 0, 0, 0, 0, 0, 0, 0, 0, 0, 0, 0, 0, 0, 0, 0, 0, 0, 0, 0, 0, 0, 0, 0, 0, 0, 0, 0, 0, 0, 0, 0, 0, 0, 0, 0, 0, 0, 0, 0, 0, 0, 0, 0, 0, 0, 0, 0, 0, 0, 0, 0, 0, 0, 0, 0, 0, 0, 0, 0, 0, 0, 0, 0, 0, 0, 0, 0, 0, 0, 0, 0, 0, 0, 0, 0, 0, 0, 0, 0, 0, 0, 0, 0, 0, 0, 0, 0, 0, 0, 0, 0, 0, 0, 0, 0, 0, 0, 0, 0, 0, 0, 0, 0, 0, 0, 0, 0, 0, 0, 0, 0, 0, 0, 0, 0, 0, 0, 0, 0, 0, 0, 0, 0, 0, 0, 0, 0, 0, 0, 0, 0, 0, 0, 0, 0, 0, 0, 0, 0, 0, 0, 0, 0, 0, 0, 0, 0, 0, 0, 0, 0, 0, 0, 0, 0, 0, 0, 0, 0, 0, 0, 0, 0, 0, 0, 0, 0, 0, 0, 0, 0, 0, 0, 0, 0, 0, 0, 0, 0, 0, 0, 0, 0, 0, 0, 0, 0, 0, 0, 0, 0, 0, 0, 0, 0, 0, 0, 0, 0, 0, 0, 0, 0, 0, 0, 0, 0, 0, 0, 0, 0, 0, 0, 0, 0, 0, 0, 0, 0, 0, 0, 0, 0, 0, 0, 0, 0, 0, 0, 0, 0, 0, 0, 0, 0, 0, 0, 0, 0, 0, 0, 0, 0, 0, 0, 0, 0, 0, 0, 0, 0, 0, 0, 0, 0, 0, 0, 0, 0, 0, 0, 0, 0, 0, 0, 0, 0, 0, 0, 0, 0, 0, 0, 0, 0, 0, 0, 0, 0, 0, 0, 0, 0, 0, 0, 0, 0, 0, 0, 0, 0, 0, 0, 0, 0, 0, 0, 0, 0, 0, 0, 0, 0, 0, 0, 0, 0, 0, 0, 0, 0, 0, 0, 0, 0, 0, 0, 0, 0, 0, 0, 0, 0, 0, 0, 0, 0, 0, 0, 0, 0, 0, 0, 0, 0, 0, 0, 0, 0, 0, 0, 0, 0, 0, 0, 0, 0, 0, 0, 0, 0, 0, 0, 0, 0, 0, 0, 0, 0, 0, 0, 0, 0, 0, 0, 0, 0, 0, 0, 0, 0, 0, 0, 0, 0, 0, 0, 0, 0, 0, 0, 0, 0, 0, 0, 0, 0, 0, 0, 0, 0, 0, 0, 0, 0, 0, 0, 0, 0, 0, 0, 0, 0, 0, 0, 0, 0, 0, 0, 0, 0, 0, 0, 0, 0, 0, 0, 0, 0, 0, 0, 0, 0, 0, 0, 0, 0, 0, 0, 0, 0, 0, 0, 0, 0, 0, 0, 0, 0, 0, 0, 0, 0, 0, 0, 0, 0, 0, 0, 0, 0, 0, 0, 0, 0, 0, 0, 0, 0, 0, 38, 0, 0, 0, 0, 0, 0, 0, 0, 0, 0, 0, 0, 0, 0, 0, 0, 0, 0, 0, 0, 0, 0, 0, 0, 0, 0, 0, 0, 0, 0, 0, 0, 0, 0, 0, 0, 0, 0, 0, 0, 0, 0, 0, 0, 0, 0, 0, 0, 0, 0, 0, 0, 0, 0, 0, 0, 0, 0, 0, 0, 0, 0, 0, 0, 0, 0, 0, 0, 0, 0, 0, 0, 0, 0, 0, 0, 0, 0, 0, 0, 0, 0, 38, 0, 0, 0, 0, 0, 0, 0, 0, 0, 0, 0, 0, 0, 0, 0, 0, 0, 0, 0, 0, 0, 0, 0, 38, 0, 0, 0, 0, 0, 0, 0, 0, 0, 0, 0, 38, 0, 0, 0, 0, 0, 0, 0, 0, 0, 0, 0, 0, 0, 0, 0, 0, 0, 0, 0, 0, 0, 0, 0, 0, 0, 0, 0, 0, 0, 0, 0, 0, 0, 0, 0, 0, 0, 0, 0, 0, 0, 0, 0, 0, 0, 0, 0, 0, 0, 0, 0, 0, 0, 0, 0, 0, 0, 0, 0, 0, 0, 0, 0, 0, 0, 0, 0, 0, 0, 0, 0, 0, 0, 0, 0, 0, 0, 0, 0, 0, 0, 0, 0, 0, 0, 0, 0, 0, 0, 0, 0, 0, 0, 0, 0, 0, 0, 0, 0, 0, 0, 0, 0, 0, 0, 0, 0, 0, 0, 0, 0, 0, 0, 0, 0, 0, 0, 0, 0, 0, 0, 0, 0, 0, 0, 0, 0, 0, 0, 0, 0, 0, 0, 0, 0, 0, 0, 0, 0, 0, 0, 0, 0, 0, 0, 0, 0, 0, 0, 0, 0, 0, 0, 0, 0, 0, 0, 0, 0, 0, 0, 0, 0, 0, 0, 0, 0, 0, 0, 0, 0, 0, 0, 0, 0, 0, 0, 0, 0, 0, 0, 0, 0, 0, 0, 0, 0, 0, 0, 0, 0, 0, 0, 0, 0, 0, 0, 0, 0, 0, 0, 0, 0, 0, 0, 0, 0, 0, 0, 0, 0, 0, 0, 0, 0, 0, 0, 0, 0, 0, 0, 0, 0, 0, 0, 0, 0, 0, 0, 0, 0, 0, 0, 0, 0, 0, 0, 0, 0, 0, 0, 0, 0, 0, 0, 0, 0, 0, 0, 0, 0, 0, 0, 0, 0, 0, 0, 0, 0, 0, 0, 0, 0, 0, 0, 0, 0, 0, 0, 0, 0, 0, 0, 0, 0, 0, 0, 0, 0, 0, 0, 0, 0, 0, 0, 0, 0, 0, 0, 0, 0, 0, 0, 0, 0, 0, 0, 0, 0, 0, 0, 0, 0, 0, 0, 0, 0, 0, 0, 0, 0, 0, 0, 0, 0, 0, 0, 0, 0, 0, 0, 0, 0, 0, 0, 0, 0, 0, 0, 0, 0, 0, 0, 0, 0, 0, 0, 0, 0, 0, 0, 0, 0, 0, 0, 0, 0, 0, 0, 0, 0, 0, 0, 0, 0, 0, 0, 0, 0, 0, 0, 0, 0, 0, 0, 0, 0, 0, 0, 0, 0, 0, 0, 0, 0, 0, 0, 0, 0, 0, 0, 0, 0, 0, 0, 0, 0, 0, 0, 0, 0, 0, 0, 0, 0, 0, 0, 0, 0, 0, 0, 0, 0, 0, 0, 0, 0, 0, 0, 0, 0, 0, 0, 0, 0, 0, 0, 0, 0, 0, 0, 0, 0, 0, 0, 0, 0, 0, 0, 0, 0, 0, 0, 0, 0, 0, 0, 0, 0, 0, 0, 0, 0, 0, 0, 0, 0, 0, 0, 0, 0, 0, 0, 0, 0, 0, 0, 0, 0, 0, 0, 0, 0, 0, 0, 0, 0, 0, 0, 0, 0, 0, 0, 0, 0, 0, 0, 0, 0, 0, 0, 0, 0, 0, 0, 0, 0, 0, 0, 0, 0, 0, 0, 0, 0, 0, 0, 0, 0, 0, 0, 0, 0, 0, 0, 0, 0, 0, 0, 0, 0, 0, 0, 0, 0, 0, 0, 0, 0, 0, 0, 0, 0, 0, 0, 0, 0, 0, 0, 0, 0, 0, 0, 0, 0, 0, 0, 0, 0, 0, 0, 0, 0, 0, 0, 0, 0, 0, 0, 0, 0, 0, 0, 0, 0, 0, 0, 0, 0, 0, 0, 0, 0, 0, 0, 0, 0, 0, 0, 0, 0, 0, 0, 0, 0, 0, 0, 0, 0, 0, 0, 0, 0, 0, 0, 0, 0, 0, 0, 0, 0, 0, 0, 0, 0, 0, 0, 0, 0, 0, 0, 0, 0, 0, 0, 0, 0, 0, 0, 0, 0, 0, 0, 0, 0, 0, 0, 0, 0, 0, 0, 0, 0, 0, 0, 0, 0, 0, 0, 0, 0, 0, 0, 0, 0, 0, 0, 0, 0, 0, 0, 0, 0, 0, 0, 0, 0, 0, 0, 0, 0, 0, 0, 0, 0, 0, 0, 0, 0, 0, 0, 0, 0, 0, 0, 0, 0, 0, 0, 0, 0, 0, 0, 0, 0, 0, 0, 0, 0, 0, 0, 0, 0, 0, 0, 0, 0, 0, 0, 0, 0, 0, 0, 0, 0, 0, 0, 0, 0, 0, 0, 0, 0, 0, 0, 0, 0, 0, 0, 0, 0, 0, 0, 0, 0, 0, 0, 0, 0, 0, 0, 0, 0, 0, 0, 0, 0, 0, 0, 0, 0, 0, 0, 0, 0, 0, 0, 0, 0, 0, 0, 0, 0, 0, 0, 0, 0, 0, 0, 0, 0, 0, 0, 0, 0, 0, 0, 0, 0, 0, 0, 0, 0, 0, 0, 0, 0, 0, 0, 0, 0, 0, 0, 0, 0, 0, 0, 0, 0, 0, 0, 0, 0, 0, 0, 0, 0, 0, 0, 0, 0, 0, 0, 0, 0, 0, 0, 0, 0, 0, 0, 0, 0, 0, 0, 0, 0, 0, 0, 0, 0, 0, 0, 0, 0, 0, 0, 0, 0, 0, 0, 0, 0, 0, 0, 0, 0, 0, 0, 0, 0, 0, 0, 0, 0, 0, 0, 0, 0, 0, 0, 0, 0, 0, 0, 0, 0, 0, 0, 0, 0, 0, 0, 0, 0, 0, 0, 0, 0, 0, 0, 0, 0, 0, 0, 0, 0, 0, 0, 0, 0, 0, 0, 0, 0, 0, 0, 0, 0, 0, 0, 0, 0, 0, 0, 0, 0, 0, 0, 0, 0, 0, 0, 0, 0, 0, 0, 0, 0, 0, 0, 0, 0, 0, 0, 0, 0, 0, 0, 0, 0, 0, 0, 0, 0, 0, 0, 0, 0, 0, 0, 0, 0, 0, 0, 0, 0, 0, 0, 0, 0, 0, 0, 0, 0, 0, 0, 0, 0, 0, 0, 0, 0, 0, 0, 0, 0, 0, 0, 0, 0, 0, 0, 0, 0, 0, 0, 0, 0, 0, 0, 0, 0, 0, 0, 0, 0, 0, 0, 0, 0, 38, 0, 0, 0, 0, 0, 0, 0, 0, 0, 0, 0, 0, 0, 0, 0, 0, 0, 0, 0, 0, 0, 0, 0, 0, 0, 0, 0, 0, 0, 0, 0, 0, 0, 0, 0, 0, 0, 0, 0, 0, 0, 0, 0, 0, 0, 0, 0, 0, 0, 0, 0, 0, 0, 0, 0, 0, 0, 0, 0, 0, 0, 0, 0, 0, 0, 0, 0, 0, 0, 0, 0, 0, 0, 0, 0, 0, 0, 38, 0, 0, 0, 0, 0, 0, 0, 0, 0, 0, 0, 0, 0, 0, 0, 0, 0, 0, 0, 0, 0, 0, 0, 0, 0, 0, 0, 0, 0, 0, 0, 0, 0, 0, 0, 0, 0, 0, 0, 0, 0, 0, 0, 0, 0, 0, 0, 0, 0, 0, 0, 0, 0, 0, 0, 0, 0, 0, 0, 0, 0, 0, 0, 0, 0, 0, 0, 0, 0, 0, 0, 0, 0, 0, 0, 0, 0, 0, 0, 0, 0, 0, 0, 0, 0, 0, 0, 0, 0, 0, 0, 0, 0, 0, 0, 0, 0, 0, 0, 0, 0, 0, 0, 0, 0, 0, 0, 0, 0, 0, 0, 0, 0, 0, 0, 0, 0, 0, 0, 0, 0, 0, 0, 0, 0, 0, 0, 0, 0, 0, 0, 0, 0, 0, 0, 0, 0, 0, 0, 0, 0, 0, 0, 0, 0, 0, 0, 0, 0, 0, 0, 0, 0, 0, 0, 0, 0, 0, 0, 0, 0, 0, 0, 0, 0, 0, 0, 0, 0, 0, 0, 0, 0, 0, 0, 0, 0, 0, 0, 0, 0, 0, 0, 0, 0, 0, 0, 0, 0, 0, 0, 0, 0, 0, 0, 0, 0, 0, 0, 0, 0, 0, 0, 0, 0, 0, 0, 0, 0, 0, 0, 0, 0, 0, 0, 0, 0, 0, 0, 0, 0, 0, 0, 0, 0, 0, 0, 0, 0, 0, 0, 0, 0, 0, 0, 0, 0, 0, 0, 0, 0, 0, 0, 0, 0, 0, 0, 0, 0, 0, 0, 0, 0, 0, 0, 0, 0, 0, 0, 0, 0, 0, 0, 0, 0, 0, 0, 0, 0, 0, 0, 0, 0, 0, 0, 0, 0, 0, 0, 0, 0, 0, 0, 0, 0, 0, 0, 0, 0, 0, 0, 0, 0, 0, 0, 0, 0, 0, 0, 0, 0, 0, 0, 0, 0, 0, 0, 0, 0, 0, 0, 0, 0, 0, 0, 0, 0, 0, 0, 0, 0, 0, 0, 0, 0, 0, 0, 0, 0, 0, 0, 0, 0, 0, 0, 0, 0, 0, 0, 0, 0, 0, 0, 0, 0, 0, 0, 0, 0, 0, 0, 0, 0, 0, 0, 0, 0, 0, 0, 0, 0, 0, 0, 0, 0, 0, 0, 0, 0, 0, 0, 0, 0, 0, 0, 0, 0, 0, 0, 0, 0, 0, 0, 0],
+         "height":29,
+         "name":"Enemy",
          "opacity":1,
          "type":"tilelayer",
          "visible":true,

diff --git a/Enemy.js b/Enemy.js
@@ -1,54 +1,88 @@
 
-var ANIM_IDLE_LEFT = 0;
+var ANIM_WALK_RIGHT = 5;
+var ANIM_WALK_LEFT = 2;
 
 var Enemy = function(x, y)
 {
-	this.scale = new Vector2(.75 ,.75)
-	
-		this.sprite = new Sprite("turtle.png");
-	
-	this.sprite.buildAnimation(12, 8, 165, 126, 0.05, [0, 1, 2, 3, 4, 5, 6, 7]);
-	this.sprite.buildAnimation(12, 8, 165, 126, 0.05, [8, 9, 10, 11, 12]);
-	this.sprite.buildAnimation(12, 8, 165, 126, 0.05, [13, 14, 15, 16, 17, 18, 19, 20, 21, 22, 23, 24, 25, 26]);
-	this.sprite.buildAnimation(12, 8, 165, 126, 0.05, [52, 53, 54, 55, 56, 57, 58, 59]);
-	this.sprite.buildAnimation(12, 8, 165, 126, 0.05, [60, 61, 62, 63, 64]);
-	this.sprite.buildAnimation(12, 8, 165, 126, 0.05, [65, 66, 67, 68, 69, 70, 71, 72, 73, 74, 75, 76, 77, 78]);
-	
-	for(var i=0; i<ANIM_MAX; i++)
-	{
-		this.sprite.setAnimationOffset(i, -55, -87);
-	}
+	this.sprite = new Sprite("turtle3.png");
+
+	this.sprite.buildAnimation(11, 4, 139, 143, 0.25, [10, 9, 8, 7, 6, 5, 4, 3, 2, 1, 0]);
+	this.sprite.buildAnimation(11, 4, 139, 143, 0.25, [21, 22, 23, 24, 25, 26, 27, 28, 29, 30, 31 ]);
+	this.sprite.setAnimationOffset(0, -43, -43);
 	
 	this.image = document.createElement("img");
 	this.position = new Vector2(); 	
 	this.position.set(9*TILE, 0*TILE);
 	
-	this.width = 159;
-	this.height = 163;
+	this.width = 139;
+	this.height = 143;
+	
+	this.position = new Vector2();
+	this.position.set(x, y);
 	
 	this.velocity = new Vector2();
 	
-	this.falling = true;
-	this.jumping = false;
+	this.direction = RIGHT;
+	
+	this.moveRight = true;
+	this.pause = 0;
 	
 	this.image.src = "turtle.png";
 	SetupImageEvents(this, this.image);
 };
 
 Enemy.prototype.update = function(deltaTime)
-{
-	var tx = pixelToTile(this.position.x);
-	var ty = pixelToTile(this.position.y);
-	var nx = (this.position.x)%TILE;
-	var ny = (this.position.y)%TILE;
-	var cell = cellAtTileCoord(LAYER_PLATFORMS, tx, ty);
-	var cellright = cellAtTileCoord(LAYER_PLATFORMS, tx + 1, ty);
-	var celldown = cellAtTileCoord(LAYER_PLATFORMS, tx, ty + 1);
-	var celldiag = cellAtTileCoord(LAYER_PLATFORMS, tx + 1, ty + 1)
+{	
+	this.sprite.update(deltaTime);
+	if(this.pause > 0)
+		{
+			this.pause -= deltaTime;
+		}
+	else
+	{
+		var ddx = 0; // acceleration
+		var tx = pixelToTile(this.position.x);
+		var ty = pixelToTile(this.position.y);
+		var nx = (this.position.x)%TILE; // true if enemy overlaps right
+		var ny = (this.position.y)%TILE; // true if enemy overlaps below
+		var cell = cellAtTileCoord(LAYER_PLATFORMS, tx, ty);
+		var cellright = cellAtTileCoord(LAYER_PLATFORMS, tx + 1, ty);
+		var celldown = cellAtTileCoord(LAYER_PLATFORMS, tx, ty + 1);
+		var celldiag = cellAtTileCoord(LAYER_PLATFORMS, tx + 1, ty + 1);
+		if(this.moveRight)
+	{
+		if(celldiag && !cellright) 
+		{
+			ddx = ddx + ENEMY_ACCEL; // enemy wants to go right
+		}
+		else 
+		{
+			this.velocity.x = 0;
+			this.moveRight = false;
+			this.pause = 0.5;
+		}
+	}
+	if(!this.moveRight)
+	{
+		if(celldown && !cell) 
+		{
+			ddx = ddx - ENEMY_ACCEL; // enemy wants to go left
+		}
+		else 
+		{
+			this.velocity.x = 0;
+			this.moveRight = true;
+			this.pause = 0.5;
+		}
+	}
+		this.position.x = Math.floor(this.position.x + (deltaTime * this.velocity.x));
+		this.velocity.x = bound(this.velocity.x + (deltaTime * ddx),
+		-ENEMY_MAXDX, ENEMY_MAXDX);
+	}
 }
 
 
 Enemy.prototype.draw = function()
 {
-	DrawImage(context, this.image, this.position.x, this.position.y, 0, this.scale.x, this.scale.y)
+	this.sprite.draw(context, this.position.x, this.position.y);
 }

diff --git a/main.js b/main.js
@@ -73,6 +73,14 @@ var ACCEL = MAXDX * 2;
 var FRICTION = MAXDX * 0.5;
 var JUMP = METER * 1500;
 
+var ENEMY_MAXDX = METER * 2;
+var ENEMY_ACCEL = ENEMY_MAXDX * 2;
+
+var enemies = [];
+
+var LAYER_OBJECT_ENEMIES = 3;
+var LAYER_OBJECT_TRIGGERS = 4;
+
 var lives = 5;
 
 function cellAtPixelCoord(layer, x,y)
@@ -138,7 +146,6 @@ function drawMap()
 }
 
 var player = new Player();
-var enemy = new Enemy();
 var keyboard = new Keyboard();
 var viewOffset = new Vector2();
 var Healthbar = new Healthbar();
@@ -210,8 +217,11 @@ function runGame(deltaTime)
 	context.translate(-viewOffset.x, 0);
 	drawMap();
 	
-	enemy.update(deltaTime);
-	enemy.draw();
+	for(var i=0; i<enemies.length; i++)
+	{
+		enemies[i].update(deltaTime);
+		enemies[i].draw();
+	}	
 	
 	player.update(deltaTime);
 	player.draw();
@@ -245,12 +255,17 @@ function runGame(deltaTime)
 	context.font = "52px impact";
 	context.textBaseline = "top";
 	context.fillText(playerScore, 900,10);
+	
+	for(var i=0; i<enemies.length; i++)
+	{
+		enemies[i].update(deltaTime);
+	}
  
 	if(iShoot && shootTimer <= 0)
-		{
+	{
 		shootTimer = shootRate;
 		playerShoot();
-		}
+	}
 		
 	if(shootTimer > 0)
 	shootTimer -= deltaTime;
@@ -339,7 +354,8 @@ function initialize()
 	} );
 	musicBackground.play();
 	
-	sfxFire = new Howl(
+	sfxFire = new Howl
+	(
 		{
 			urls: ["fireEffect.ogg"],
 			buffer: true,
@@ -348,8 +364,24 @@ function initialize()
 			{
 				isSfxPlaying = false;
 			}
-		} );
-
+		}
+	)
+	
+	idx = 0;
+	for(var y = 0; y < level1.layers[LAYER_OBJECT_ENEMIES].height; y++)
+	{
+		for(var x = 0; x < level1.layers[LAYER_OBJECT_ENEMIES].width; x++)
+		{
+			if(level1.layers[LAYER_OBJECT_ENEMIES].data[idx] != 0)
+			{
+				var px = tileToPixel(x);
+				var py = tileToPixel(y);
+				var e = new Enemy(px, py);
+				enemies.push(e);
+			}
+			idx++;
+		}
+	}
 }
 
 initialize();
